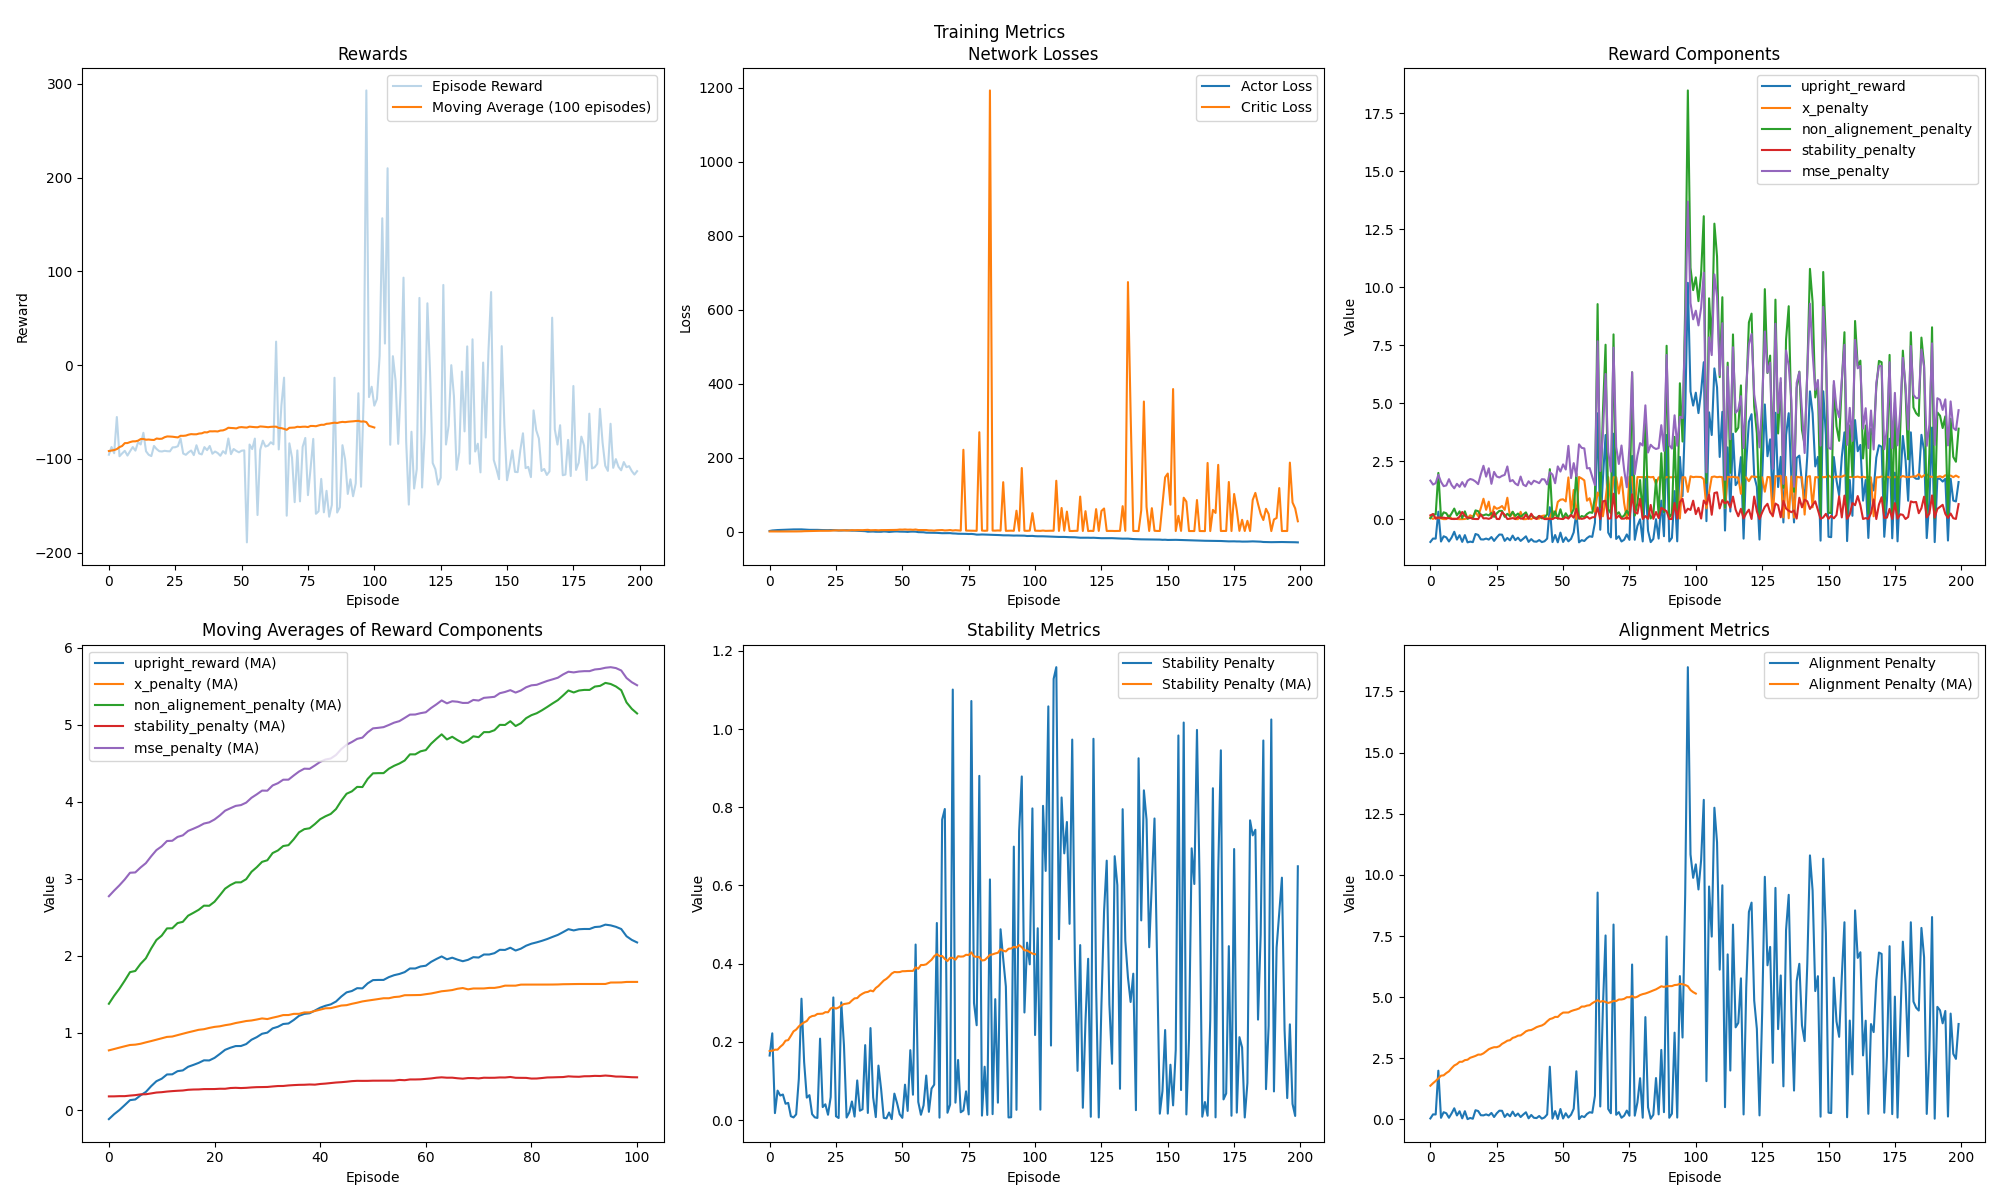
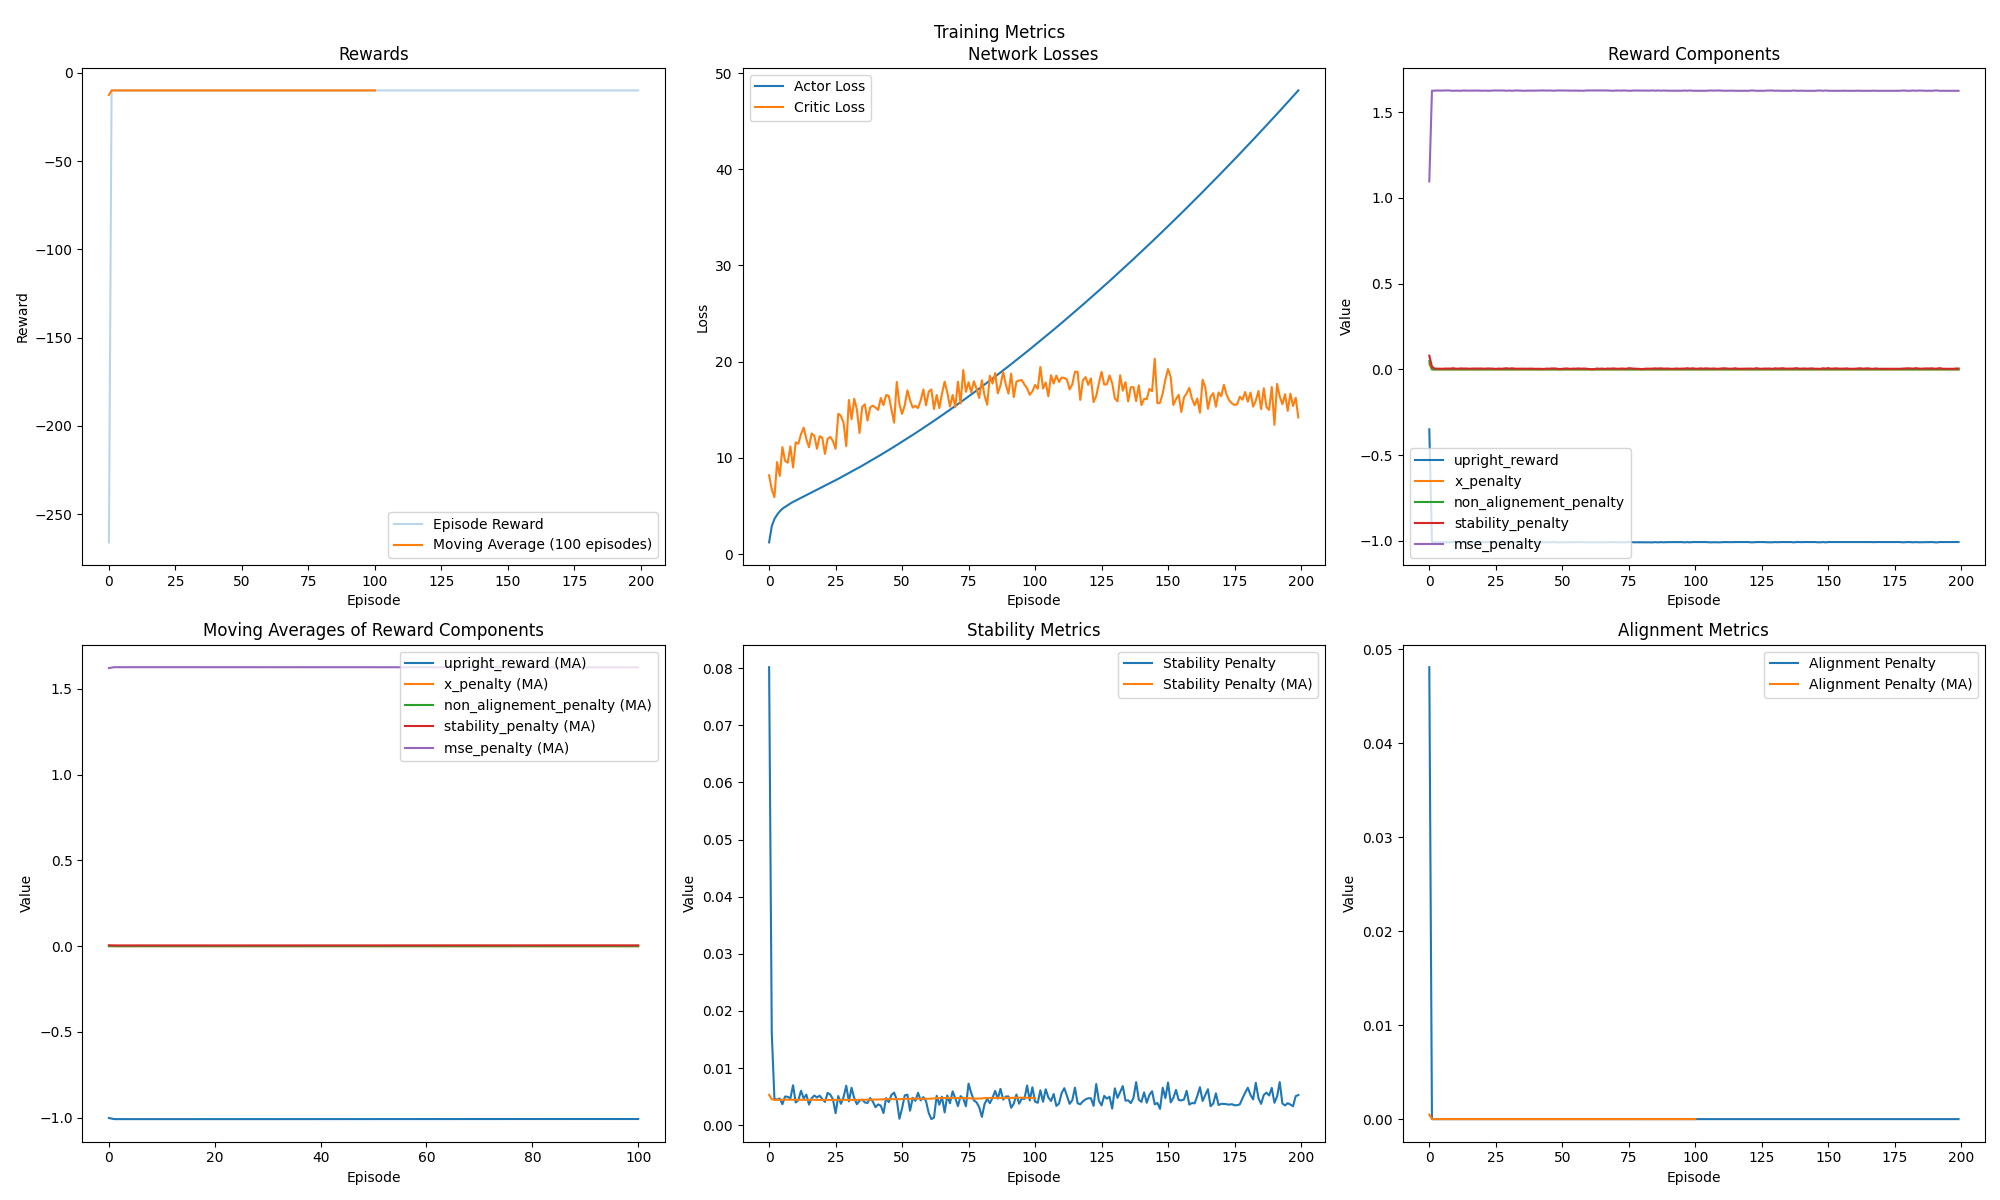
Modification de l'environnement TriplePendulum pour ajuster la gravité à 1.0 et mise à jour des scripts d'exécution manuelle et de formation pour intégrer un nombre configurable de nœuds. Amélioration du gestionnaire de récompenses avec des paramètres de suivi d'état et des ajustements dans le calcu

diff --git a/reward.py b/reward.py
@@ -1,22 +1,45 @@
 import numpy as np
 import random as rd
+from config import config
+
 class RewardManager:
     def __init__(self):
+        # -----------------------
+        # Configuration
+        # -----------------------
+        self.num_nodes = config['num_nodes']
+        self.length = 0.5  # Pendulum length
+        
+        # -----------------------
+        # Reward weights
+        # -----------------------
         self.cart_position_weight = 0.20
         self.termination_penalty = 100.0
         self.alignement_weight = 0.4
         self.upright_weight = 1.5
         self.stability_weight = 0.02  # Weight for the stability reward
         self.mse_weight = 5.0  # Weight for the MSE penalty
-        self.old_state = None
-        self.length = 0.5  # Pendulum length
+        
+        # -----------------------
+        # Upright tracking parameters
+        # -----------------------
+        self.upright_threshold = 0.60  # Threshold for considering pendulum upright
         self.consecutive_upright_steps = 0  # Track consecutive steps with pendulum upright
-        self.upright_threshold = 0.50  # Threshold for considering pendulum upright
         self.exponential_base = 1.15  # Base for exponential reward
         self.max_exponential = 5.0  # Maximum exponential multiplier
-        self.old_points_positions = None
         self.have_been_upright_once = False
+        self.came_back_down = False
+        self.steps_double_down = 0
+        # -----------------------
+        # State tracking
+        # -----------------------
+        self.old_state = None
+        self.old_points_positions = None
         self.cached_velocity = 0
+        
+        # -----------------------
+        # Target state
+        # -----------------------
         self.aim_position_state = [0.0, 0.0, 0.0, np.pi,
                                  0.0, 0.0, np.pi, 0.0,
                                  0.0, np.pi, 0.0, 0.0,
@@ -48,6 +71,8 @@ class RewardManager:
         end2_x, end2_y = state[16:18]        # Second end position
         end3_x, end3_y = state[18:20]        # Third end position
 
+        end_node_y = state[13 + self.num_nodes * 2]
+
         if self.old_points_positions is None:
             self.old_points_positions = [pivot1_x, pivot1_y, end1_x, end1_y, end2_x, end2_y, end3_x, end3_y]
         
@@ -65,7 +90,7 @@ class RewardManager:
         upright_reward = upright_reward_points + upright_reward_angles - 2.5
 
         # Check if pendulum is upright
-        is_upright = (state[19] < self.upright_threshold)
+        is_upright = (end_node_y < self.upright_threshold)
 
         # Update consecutive upright steps
         if is_upright:
@@ -111,25 +136,33 @@ class RewardManager:
         mse_penalty = self.mse_weight * (mse_sum / len(state))
 
         # Penalties are negative, rewards are positive
-        # reward = upright_reward - x_penalty - non_alignement_penalty - stability_penalty - mse_penalty
-        reward = upright_reward - (x_penalty + non_alignement_penalty + stability_penalty + mse_penalty) * 0.01
+        reward = upright_reward - x_penalty - non_alignement_penalty - stability_penalty - mse_penalty
+        # reward = upright_reward - (x_penalty + non_alignement_penalty + stability_penalty + mse_penalty) * 0.01
 
         reward /= 5
 
-        if not self.have_been_upright_once and state[19] < 0.5:
+        if not self.have_been_upright_once and end_node_y < 0.5:
             self.have_been_upright_once = True
+
+        if self.have_been_upright_once and end_node_y > 0.5:
+            self.came_back_down = True
         
-        if self.have_been_upright_once and state[19] > 0.5:
+        if self.have_been_upright_once and self.came_back_down:
             reward = -10
+            self.steps_double_down += 1
 
         # Apply termination penalty
         if terminated:
             reward -= self.termination_penalty
+
+        force_terminated = False
+        if self.steps_double_down > 50:
+            force_terminated = True
             
-        return reward, upright_reward, x_penalty, non_alignement_penalty, stability_penalty, mse_penalty
+        return reward, upright_reward, x_penalty, non_alignement_penalty, stability_penalty, mse_penalty, force_terminated
     
     def get_reward_components(self, state, current_step):
-        reward, upright_reward, x_penalty, non_alignement_penalty, stability_penalty, mse_penalty = self.calculate_reward(state, False, current_step)
+        reward, upright_reward, x_penalty, non_alignement_penalty, stability_penalty, mse_penalty, force_terminated = self.calculate_reward(state, False, current_step)
         return {
             'x_penalty': x_penalty,
             'non_alignement_penalty': non_alignement_penalty,

diff --git a/train.py b/train.py
@@ -10,6 +10,7 @@ import torch.nn.functional as F
 import os
 import random
 from collections import deque
+from config import config
 
 class ReplayBuffer:
     def __init__(self, capacity=10000):
@@ -121,7 +122,7 @@ class TriplePendulumTrainer:
                 self.env.render(episode=episode, epsilon=self.epsilon)
             
             # Calculate custom reward and components
-            custom_reward, upright_reward, x_penalty, non_alignement_penalty, stability_penalty, mse_penalty = self.reward_manager.calculate_reward(next_rich_state, terminated, num_steps)
+            custom_reward, _, _, _, _, _, force_terminated = self.reward_manager.calculate_reward(next_rich_state, terminated, num_steps)
             reward_components = self.reward_manager.get_reward_components(next_rich_state, num_steps)
             
             # Normalize reward
@@ -251,19 +252,6 @@ class TriplePendulumTrainer:
             self.actor_optimizer.load_state_dict(torch.load('models/checkpoint_actor_optimizer.pth', weights_only=True))
             self.critic_optimizer.load_state_dict(torch.load('models/checkpoint_critic_optimizer.pth', weights_only=True))
 
-if __name__ == "__main__":
-    config = {
-        'num_episodes': 10_000,
-        'actor_lr': 3e-4,
-        'critic_lr': 3e-4,
-        'gamma': 0.99,
-        'batch_size': 64,
-        'hidden_dim': 256,
-        'buffer_capacity': 100000,
-        'updates_per_episode': 10,
-        'load_models': False,
-        'num_nodes': 1
-    }
-    
+if __name__ == "__main__":    
     trainer = TriplePendulumTrainer(config)
     trainer.train() 

diff --git a/manual_run.py b/manual_run.py
@@ -3,10 +3,11 @@ import sys
 import numpy as np
 from env import TriplePendulumEnv
 from reward import RewardManager
+from config import config
 
 # Create the environment with rendering
 reward_manager = RewardManager()
-env = TriplePendulumEnv(render_mode="human", reward_manager=reward_manager, num_nodes=1)
+env = TriplePendulumEnv(render_mode="human", reward_manager=reward_manager, num_nodes=config['num_nodes'])
 
 # Reset the environment and get initial observation
 obs, info = env.reset()

diff --git a/env.py b/env.py
@@ -21,7 +21,7 @@ class TriplePendulumEnv(gym.Env):
         # -----------------------
         # Environment parameters
         # -----------------------
-        self.gravity = 9.81
+        self.gravity = 1.0
         self.mass_cart = 1.0
         self.mass_pend1 = 0.2  # Mass of first pendulum
         self.mass_pend2 = 0.2  # Mass of second pendulum

diff --git a/config.py b/config.py
@@ -1,0 +1,12 @@
+config = {
+    'num_episodes': 10_000,
+    'actor_lr': 3e-4,
+    'critic_lr': 3e-4,
+    'gamma': 0.99,
+    'batch_size': 64,
+    'hidden_dim': 256,
+    'buffer_capacity': 100000,
+    'updates_per_episode': 10,
+    'load_models': False,
+    'num_nodes': 3
+}
